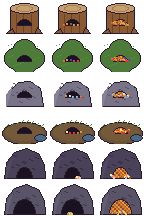
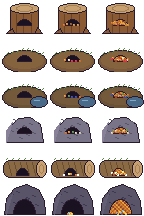
Hibernation prep: animals that differ from student pets (dormouse, badger, turtle, salamander, ladybugs, bear)
Claude-Session: https://claude.ai/code/session_01HhJ2NoNCjk5kaA3GWL7UDs

diff --git a/tools/hibernate/hibernate_plan.md b/tools/hibernate/hibernate_plan.md
@@ -19,16 +19,16 @@
 ## 3. 굴 여섯 곳
 | 동물 | 자리 (예정) | 좋아하는 먹이 | 좋아하는 이불감 |
 |---|---|---|---|
-| 다람쥐 | 풍차 숲 나무 밑동 | 도토리 · 알밤 · 호두 | 마른 갈대 |
-| 고슴도치 | 언덕 숲 덤불 | 산딸기 · 블루베리 · 달팽이 껍질 | 서리 낙엽 |
-| 너구리 | 호숫가 바위틈 | 생선 (아무거나) · 호두 | 자작나무 껍질 |
-| 개구리 | 늪지 진흙 둑 | 무당벌레 · 반딧불이 | 촉촉 이끼 |
-| 박쥐 | 묘지 뒤 동굴 | 달빛 나방 날개 · 반딧불이 · 산사 열매 | 마른 갈대 |
+| 겨울잠쥐 | 풍차 숲 나무 그루터기 | 도토리 · 알밤 · 호두 | 마른 갈대 |
+| 오소리 | 언덕 숲 흙더미 굴 | 송이버섯 · 팽이버섯 · 산딸기 | 서리 낙엽 |
+| 거북이 | 늪지 웅덩이 옆 진흙 둑 | 블루베리 · 고사리 · 생선 (아무거나) | 촉촉 이끼 |
+| 도롱뇽 | 호숫가 바위틈 | 달팽이 껍질 · 고사리 · 반딧불이 | 촉촉 이끼 |
+| 무당벌레 가족 | 묘지 뒤 쓰러진 통나무 | 들꽃 · 은방울꽃 · 해바라기씨 | 자작나무 껍질 |
 | 곰 | 북쪽 숲 끝 큰 굴 | 벌꿀 · 생선 · 송이버섯 · 찔레 열매 | 서리 낙엽 · 자작나무 껍질 |
 
+- 학생들 펫(아기 동물 12 종)과 겹치지 않는 동물로만 골랐어요.
 - 굴마다 먹이 게이지와 이불 게이지가 따로 있어요. 둘 다 차야 잠들어요.
 - 곰 굴만 게이지가 두 배예요. 반 전체 마지막 목표예요.
-- 박쥐 굴이 차면 배트리도 그제야 안심하고 꾸벅 졸아요 (잠들지는 않고 편지 배달은 계속해요).
 
 ## 4. 채우기
 - 굴 앞에서 동물을 누르면 「먹이 넣기」 · 「이불감 넣기」 창이 떠요. 가방에서 골라 넣어요.
@@ -41,7 +41,7 @@
 
 | 굴 | 먹이 목표 | 이불 목표 |
 |---|---|---|
-| 다람쥐 · 고슴도치 · 너구리 · 개구리 · 박쥐 | 80 점 | 40 점 |
+| 겨울잠쥐 · 오소리 · 거북이 · 도롱뇽 · 무당벌레 가족 | 80 점 | 40 점 |
 | 곰 | 160 점 | 80 점 |
 
 - 모두 합쳐 840 점이에요. 학생 12 명이 하루에 14 점씩 넣으면 5 일 안에 다 차는 양이에요.
@@ -54,7 +54,7 @@
 - 잠든 굴은 누르면 「쉿, 자고 있어요」만 떠요. 깨우지 않아요.
 
 ## 6. 잠드는 장면
-- 굴이 가득 차는 순간, 그때 접속해 있는 학생 모두에게 짧은 알림이 떠요: 「다람쥐 굴이 가득 찼어요」.
+- 굴이 가득 차는 순간, 그때 접속해 있는 학생 모두에게 짧은 알림이 떠요: 「겨울잠쥐 굴이 가득 찼어요」.
 - 굴 앞에 가 보면 장면이 나와요 (학생마다 한 번).
   - 동물이 마지막 도토리를 볼에 넣고, 이불감을 끌고 굴로 들어가요.
   - 입구에서 돌아보고 고개를 꾸벅해요.
@@ -64,11 +64,11 @@
 ## 7. 잠들기 전 선물
 - 굴이 가득 차서 동물이 잠들면, 그 굴에 하나라도 넣은 학생 방 앞에 그 동물이 선물을 두고 가요. 잠들기 전에 고맙다고 남기는 선물이에요.
 - 학생이 다음에 방에 들어가면 문 앞에서 찾을 수 있어요.
-  - 다람쥐: 황금 도토리 1 개
-  - 고슴도치: 가구 「고슴도치 쿠션」
-  - 너구리: 드문 생선 1 마리
-  - 개구리: 연꽃 씨앗 (온실에 심을 수 있게)
-  - 박쥐: 말풍선 꾸미기 「박쥐 날개 말풍선」
+  - 겨울잠쥐: 가구 「겨울잠쥐 쿠션」
+  - 오소리: 황금 도토리 1 개
+  - 거북이: 연꽃 씨앗 (온실에 심을 수 있게)
+  - 도롱뇽: 드문 생선 1 마리
+  - 무당벌레 가족: 말풍선 꾸미기 「무당벌레 말풍선」
   - 곰: 벌꿀 단지 3 개 + 가구 「잠든 곰 인형」
 - 많이 넣은 학생 3 명에게는 잠드는 장면에서 그 동물이 한 번 더 고개를 꾸벅해요. 점수는 공개하지 않아요.
 - 동물들은 이벤트가 끝나도 굴에서 계속 자요. 깨우는 장면은 없어요.
@@ -101,9 +101,9 @@
 
 ## 12. 그림 · 소리 (만들 것)
 - 굴 여섯 곳 × 3 단계 (휑함 · 쌓임 · 낙엽으로 덮임)
-- 동물 6 종: 아기 동물 이벤트의 다람쥐 · 고슴도치 · 너구리 · 개구리 · 박쥐 그림체를 따라 조금 크게, 곰은 새로 그려요
+- 동물 6 종 (겨울잠쥐 · 오소리 · 거북이 · 도롱뇽 · 무당벌레 가족 · 곰): 아기 동물 그림체를 따라 새로 그려요
 - 잠든 숨소리 「Z」, 배고픔 표시, 졸린 배트리 (눈 반쯤 감은 얼굴)
-- 가구: 고슴도치 쿠션 · 잠든 곰 인형 · 작은 굴 액자
+- 가구: 겨울잠쥐 쿠션 · 잠든 곰 인형 · 작은 굴 액자
 - 소리: 바스락 낙엽 · 오도독 도토리 · 하품 · 곰이 잠들 때 잔잔한 오르골
 
 ## 13. 일정 (예시)
